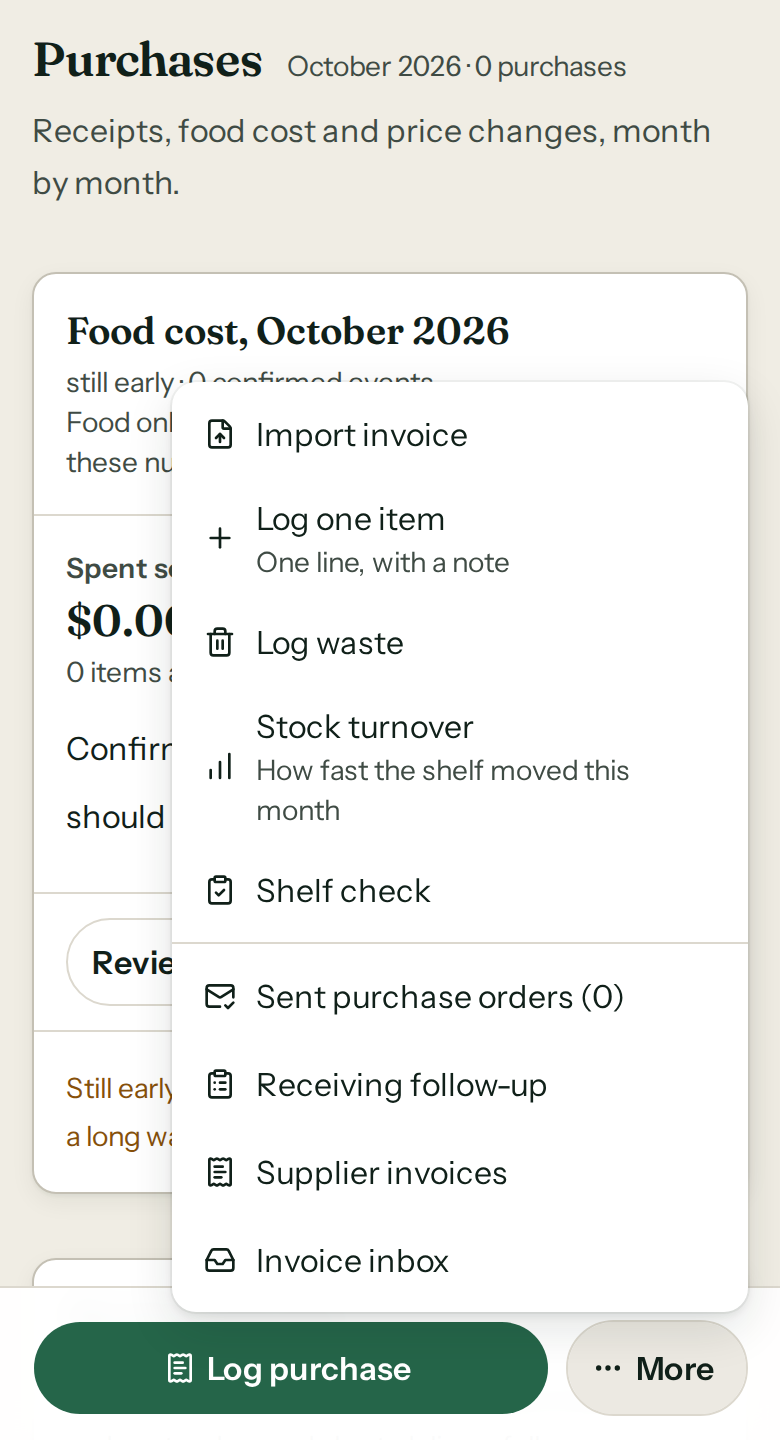
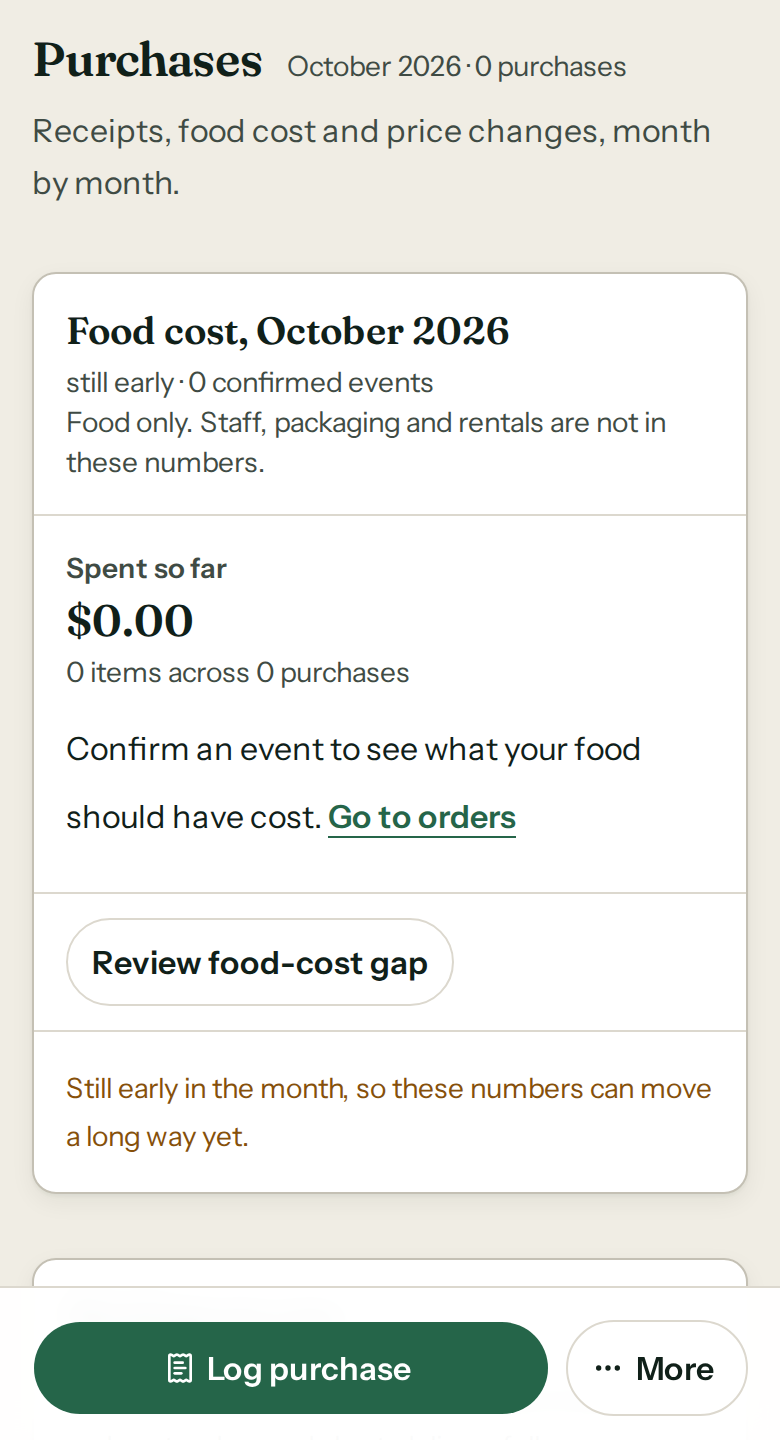
fix(onboarding): Purchases shot with the More menu closed
The phone capture opened More to show where "Import invoice" lives, and
on the page it read as a menu left open over half the screen (owner
review). Now a pair like the other scenes: on a computer the Purchases
header, "Import invoice" beside "Log purchase"; on a phone the page with
"More" in the bar at the foot. The caption says where it is on each, and
the phone-only side-caption layout from 89cf5ac goes with it.

Changed region(s): [[0.2154, 0.25, 0.9846, 1.0]]

diff --git a/docs/stories/onboarding.story.md b/docs/stories/onboarding.story.md
@@ -325,3 +325,4 @@ Content: `src/components/sections/OnboardingPage.astro` and its shared data/resp
 - Humanize review applied to the changed bodies and captions; the two pinned phrases ("without rewriting confirmed orders", "“check”, never “clear”") kept.
 - Snap line unchanged: a name can tell Sage that butter has milk, not that chicken has none (now the stage-three caption, in the app's own words).
 - Stage three reshot with Sage on a real provider (Google): the card now shows Sage's drafted diet facts ("Sage drafted Animal product: Yes · …") and "Use Sage's answers", with the allergens still open. Alt and caption read the drafted line off the pixels; the snap line stands.
+- The next invoice: Purchases reshot with the More menu closed (owner review: an open menu read as left open). Desktop shows the header, "Import invoice" beside "Log purchase"; phones show the page with "More" in the bar at the foot. Caption says where it is on each.
